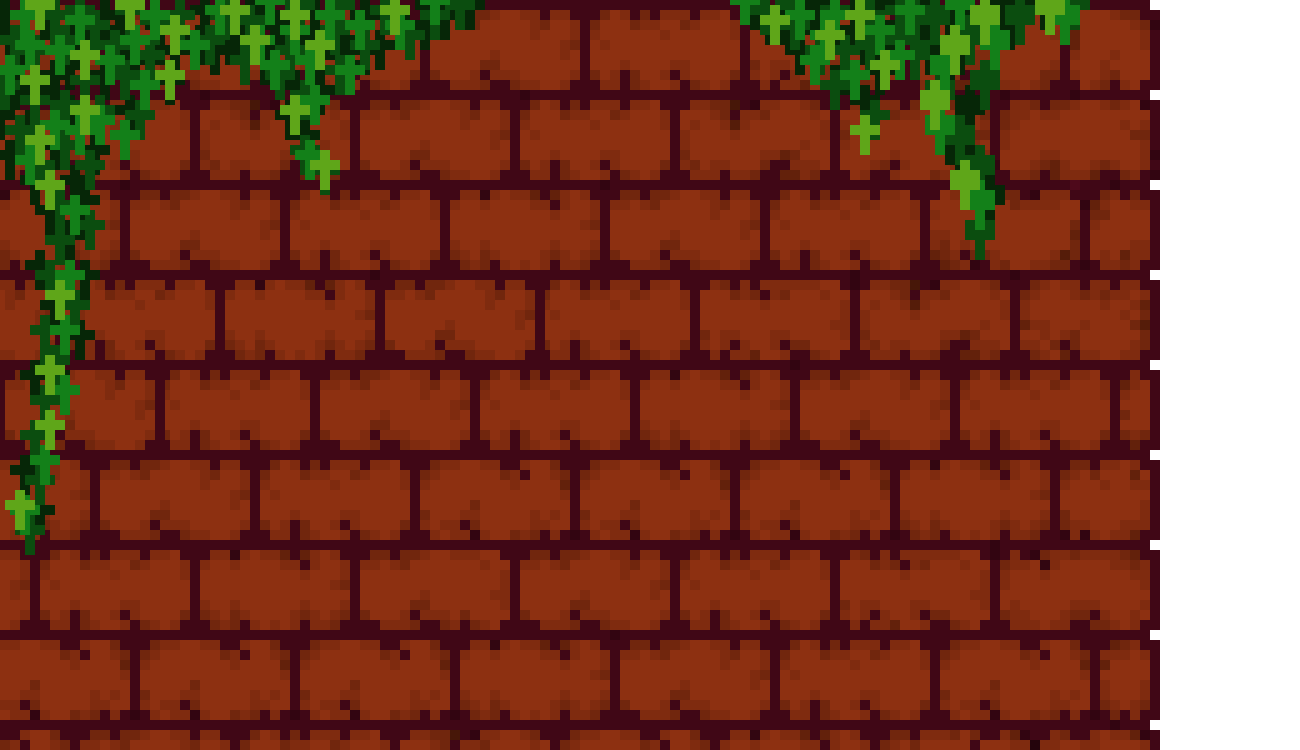
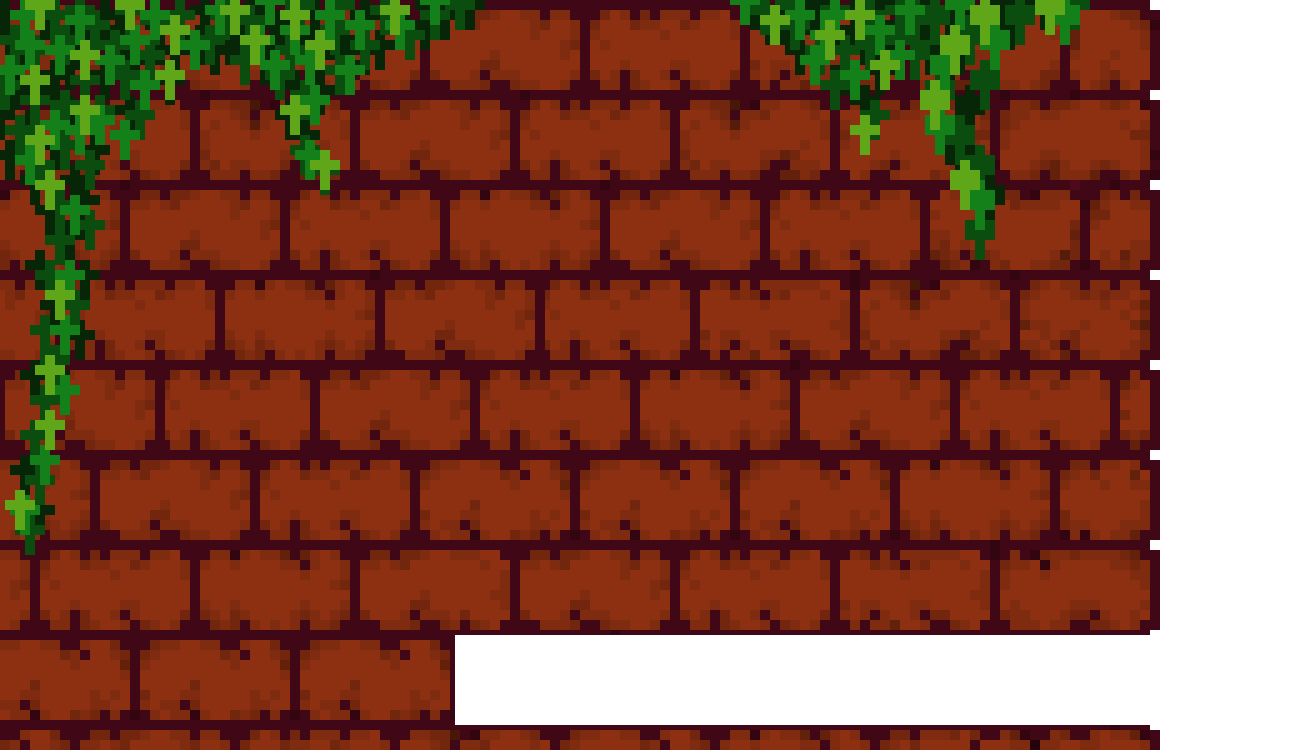
character select button, cardinal

Changed region(s): [[0.3385, 0.828, 0.8923, 0.9813]]

diff --git a/HOFUtil.java b/HOFUtil.java
@@ -67,6 +67,12 @@ public class HOFUtil extends HOF{
       g.drawImage(gradient.getImage(),0,0,null);
       g.drawImage(cloud.getPicture().getImage(),cloud.move(),0,null);
       g.drawImage((new ImageIcon("images/menus/vine-wall.png")).getImage(), 0, 0, null);
+      if(mouseX<1150 && mouseX>454 && mouseY<727 && mouseY>635){ // do stuff for mouse hovering over char select
+         g.drawImage((new ImageIcon("images/menus/charsel-click.png")).getImage(), 0, 0, null);
+      }
+      else{
+         g.drawImage((new ImageIcon("images/menus/charsel-unclicked.png")).getImage(), 0, 0, null);
+      }
       for(int i=0; i<2; i++){
          for(int j=0; j<5; j++){
             int size = 160;
@@ -453,7 +459,8 @@ public class HOFUtil extends HOF{
       // home
       ImageIcon homescreen = new ImageIcon("images/menus/wall-and-sign.png");
       g.drawImage(homescreen.getImage(),0,0,1300,750,null);
-      
+      // cardinal
+      g.drawImage((new ImageIcon("images/menus/cardinal.gif")).getImage(), 0, 0, null);
       // buttons
       ImageIcon startun = new ImageIcon("images/menus/start-unclicked.png");
       ImageIcon startcl = new ImageIcon("images/menus/start-click.png");

diff --git a/HOF.java b/HOF.java
@@ -496,7 +496,7 @@ public class HOF extends JPanel implements MouseListener, MouseMotionListener{
    public void mouseMoved(MouseEvent e){
       mouseX=e.getX();
       mouseY=e.getY();
-      //System.out.println("mousex: " + mouseX + " mousey: " + mouseY);
+      System.out.println("mousex: " + mouseX + " mousey: " + mouseY); // mouse ---------
    }
    public void mouseClicked(MouseEvent e){
       mouseX=e.getX();
